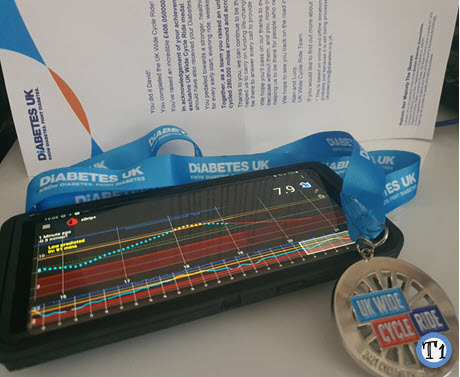
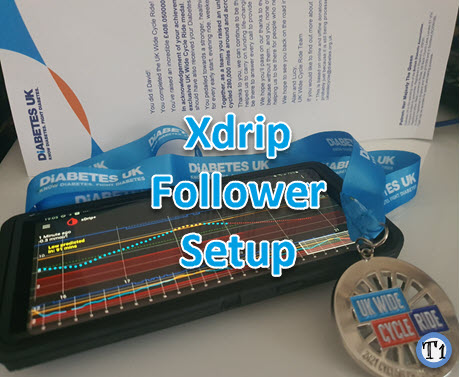
added new image to xdrip follower

Changed region(s): [[0.3043, 0.4377, 0.7304, 0.5836], [0.3652, 0.6127, 0.6696, 0.7586], [0.3957, 0.2918, 0.6391, 0.4377]]

diff --git a/site/index.html b/site/index.html
@@ -239,5 +239,5 @@ docs made by D.Galloway 2019- 2021-->
 
 <!--
 MkDocs version : 1.1.2
-Build Date UTC : 2021-08-06 22:42:26.694456+00:00
+Build Date UTC : 2021-08-08 12:16:37.935389+00:00
 -->
